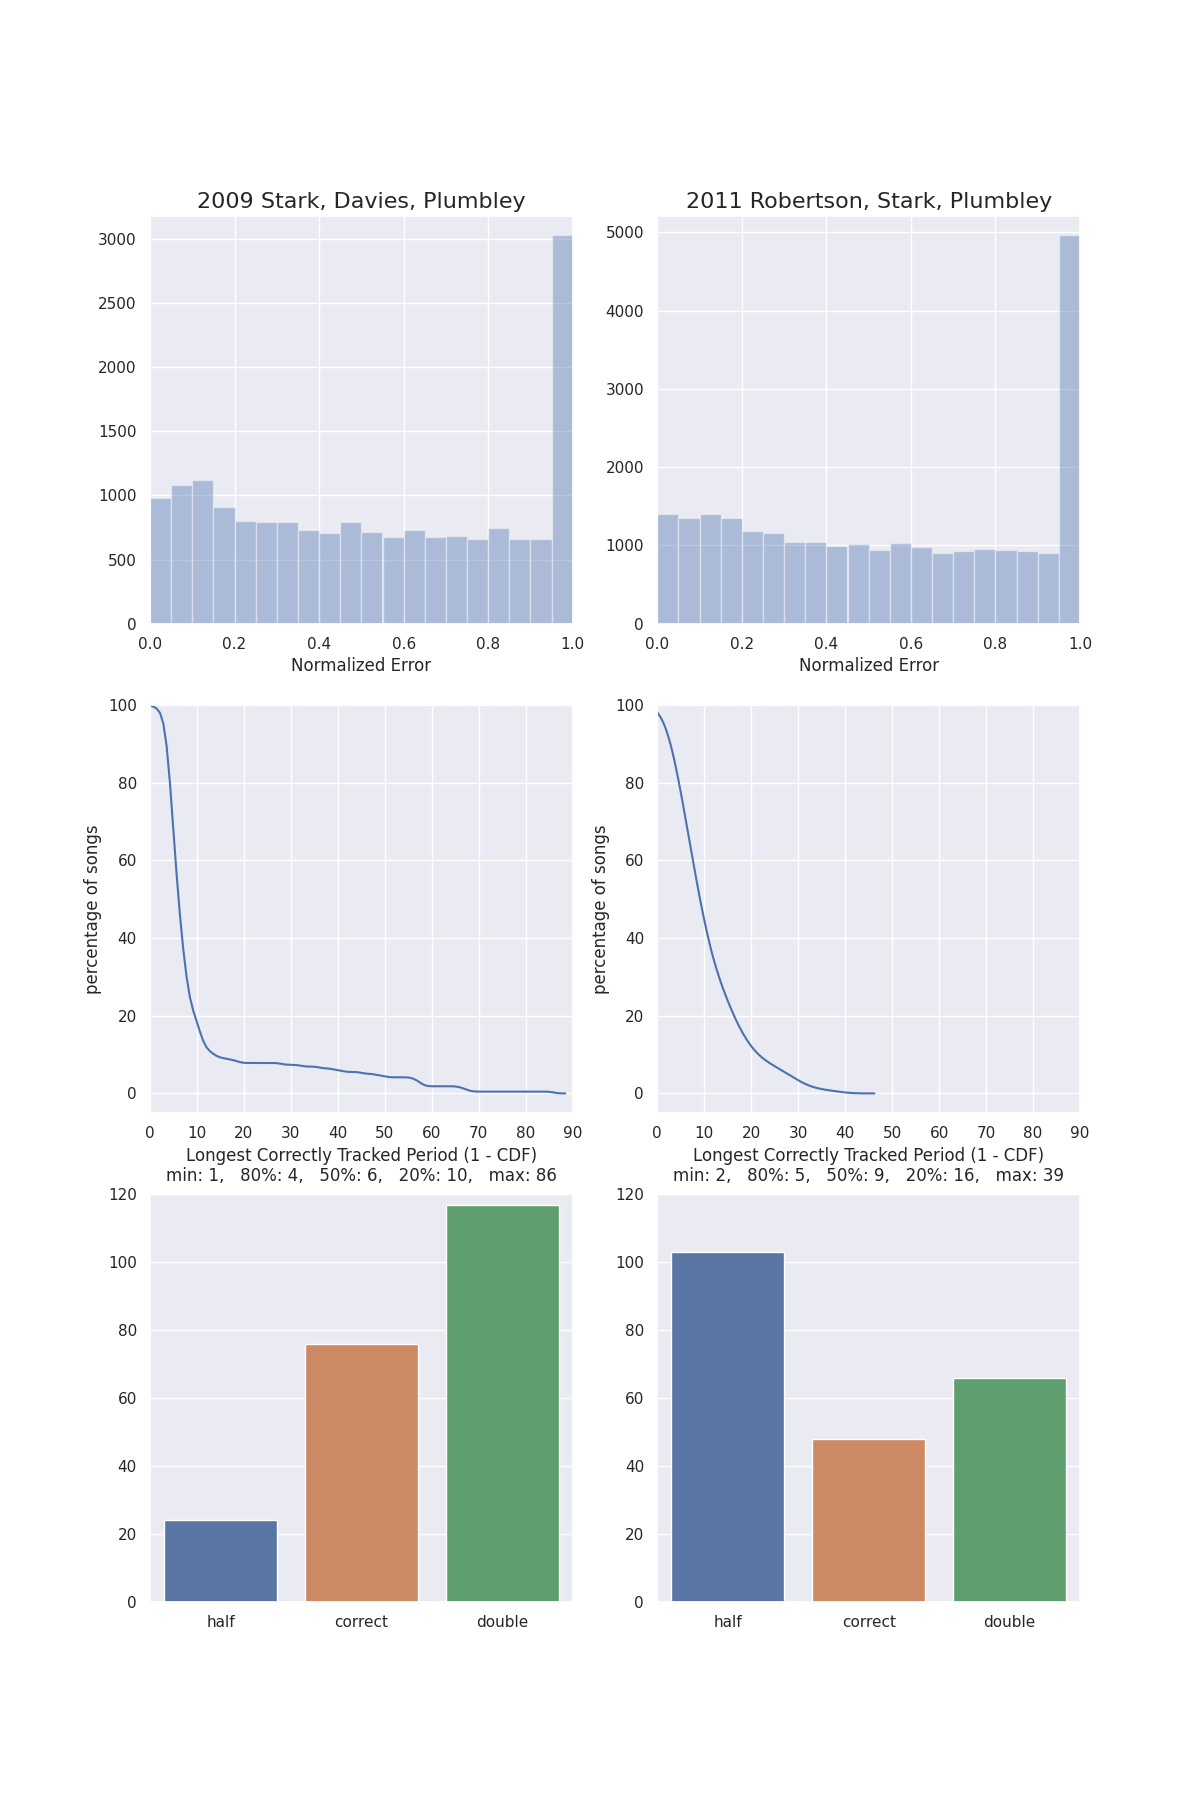
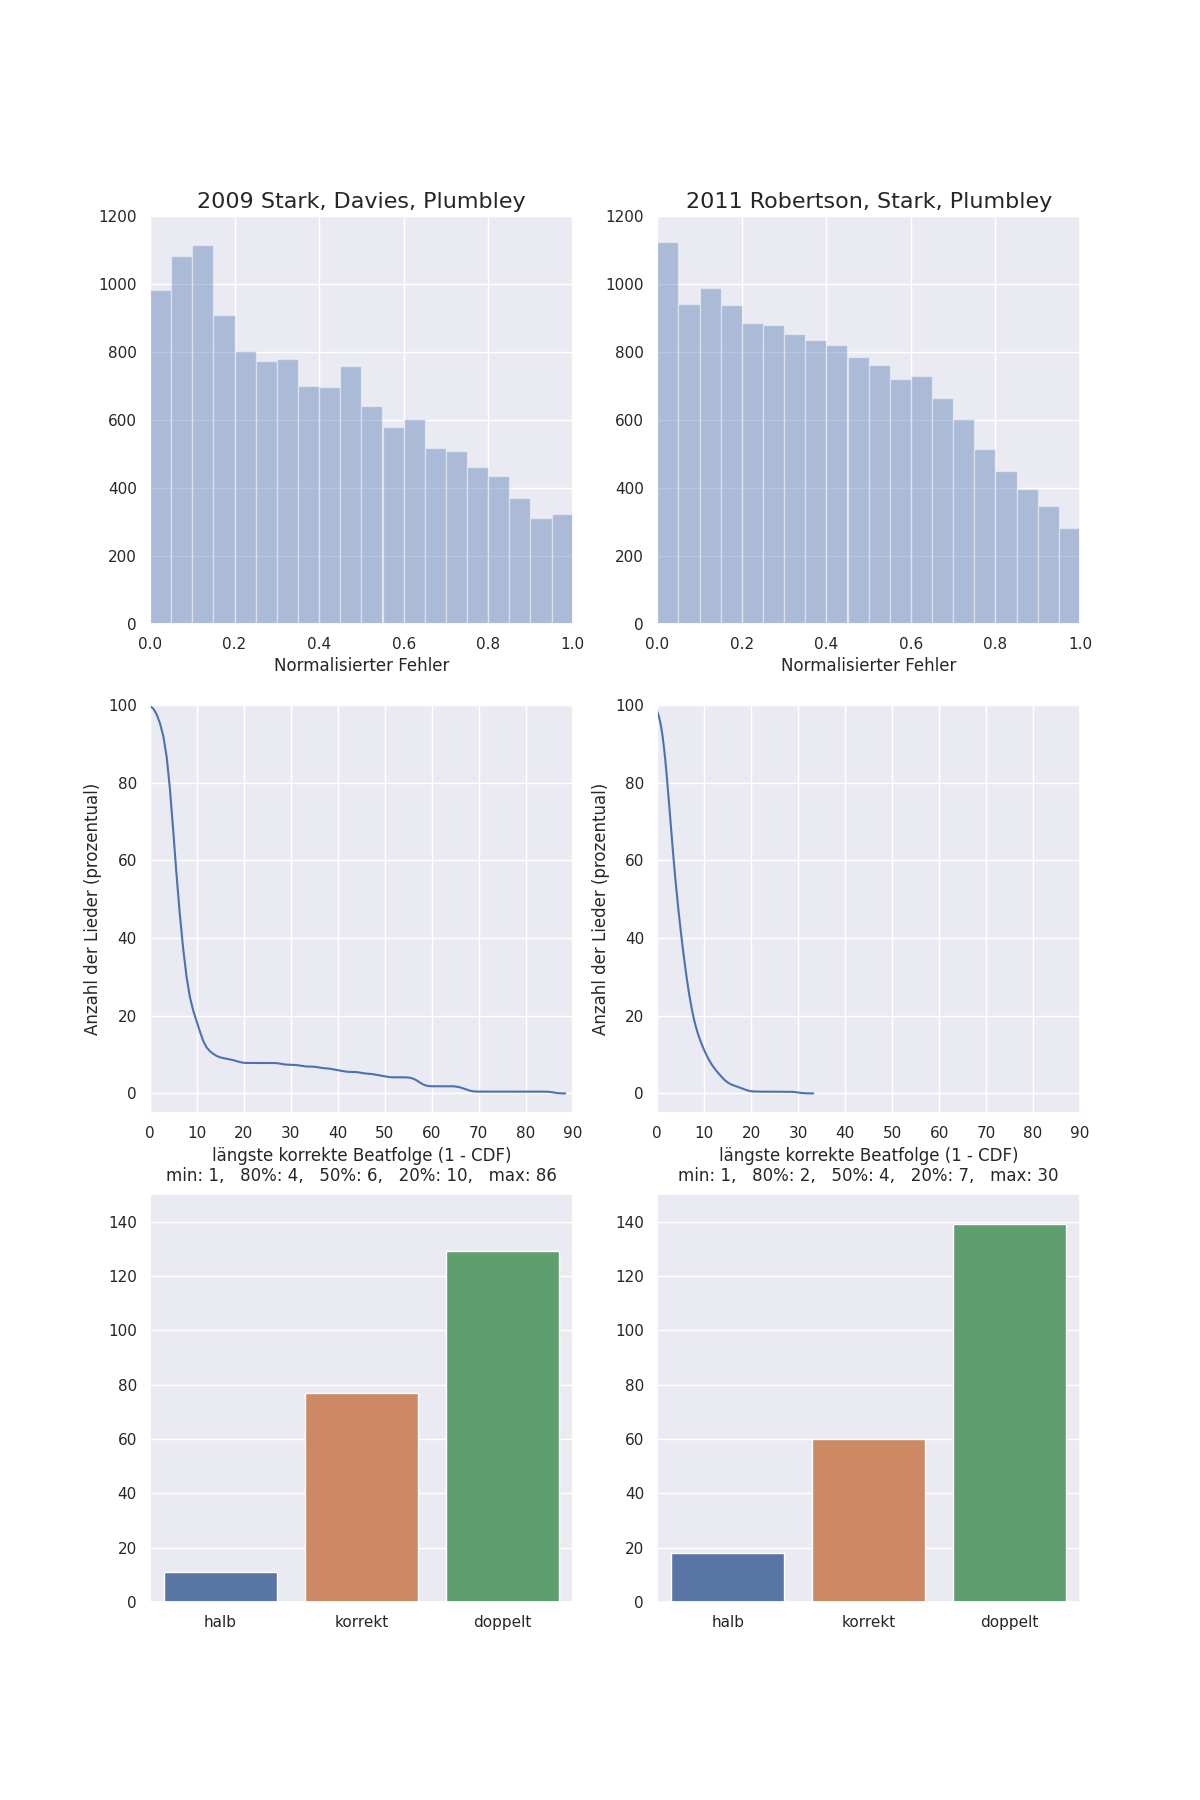
07 Ergebnisse und Auswerting/Beatzeitpunktfehler geschrieben

diff --git a/Arbeit/chapter/06_ergebnisse.tex b/Arbeit/chapter/06_ergebnisse.tex
@@ -115,25 +115,84 @@
 
 \section{Beatzeitpunktfehler}
 {
-	\begin{figure}[h]
-		\includegraphics[scale=0.5]{resources/beat_positions.png}
-		\caption{
-			oben: Histogramme der Beatzeitpunktfehler, \\
-			mitte: Verteilung der längsten korrekten Beatfolgen, \\
-			unten: Anzahl der Lieder, bei denen die Beatfolge mit halbem/korrektem/doppeltem Tempo erkannt wurde.
-		}
-		\label{fig:beaterror}
-	\end{figure}
+	\subsection{Ergebnisse}
+	{
+		\begin{figure}[h]
+			\includegraphics[scale=0.5]{resources/beat_positions.png}
+			\caption{
+				oben: Histogramme der Beatzeitpunktfehler, \\
+				mitte: Verteilung der längsten korrekten Beatfolgen, \\
+				unten: Anzahl der Lieder, bei denen die Beatfolge mit halbem/korrektem/doppeltem Tempo erkannt wurde.
+			}
+			\label{fig:beaterror}
+		\end{figure}
 
-	In Abbildung~\ref{fig:beaterror} oben ist die Verteilung der Fehler aller Beatpaare zu sehen,
-		inklusive der Fehler der ungepaarten Schläge,
-		welche immer \num{1} sind.
-	Die Graphen in der Mitte zeigen eine vertikel gespiegelte kumulative Verteilunsfunktion.
-	So kann man für jede Beatfolgenlänge ablsesen,
-		in wievielen Liedern (prozentual) eine korrekte Beatfolge mit mindestens dieser Länge erkannt wurde.
-	Die Balkendiagramme zeigen pro Algorithmus,
-		bei wievielen Liedern eine Beatfolge mit halbem, korrektem oder doppeltem Tempo als Referenzbeatfolge genommen wurde.
-	Ob die Referenzbeatfolge um $\pi$ phasenverschoben wurde, oder nicht, ist nicht zu sehen.
+		\begin{table}[h]
+			\centering
+			\begin{tabular}{l | r | r}
+				                            & \cite{2009_DaPlSt} & \cite{2011_PlRoSt} \\
+				\hline \hline
+				Anzahl korrekter Beats      & \num{14944}        & \num{15951}        \\
+				davon ungepaart             &  \num{1600}        &  \num{1437}        \\
+				\hline
+				Anzahl vorhergesagter Beats & \num{16361}        & \num{24426}        \\
+				davon ungepaart             &  \num{3017}        &  \num{9912}        \\
+				\hline
+				Anzahl der Beatpaare        & \num{13344}        & \num{14514}
+			\end{tabular}
+			\caption{whatever}
+			\label{tab:pairnum}
+		\end{table}
+
+		In Abbildung~\ref{fig:beaterror} oben ist die Verteilung der Fehler aller Beatpaare zu sehen.
+		Die Histogramme zeigen nur die Fehler,
+			der gepaarten Beats,
+			enthalten jedoch keine Informationen über die ungepaarten Beatvorhersagen.
+		Wieviele der korrekten und vorhergesagten Beats gepaart wurden,
+			kann aus Tabelle~\ref{tab:pairnum} entnommen werden.
+		Die unterschiedlichen Zahlen für die Anzahl korrekter Beats kommen daher,
+			dass die Lieder,
+			je nachdem ob sie der Algorithmus mit halbem, korrektem oder doppeltem Tempo erkennt,
+			unterschiedlich viele Beats haben.
+		Die Graphen in der Mitte von Abbildung~\ref{fig:beaterror} zeigen eine vertikel gespiegelte kumulative Verteilunsfunktion.
+		So kann man für jede Beatfolgenlänge ablsesen,
+			in wievielen Liedern (prozentual) eine korrekte Beatfolge mit mindestens dieser Länge erkannt wurde.
+		Die Balkendiagramme unten zeigen pro Algorithmus,
+			bei wievielen Liedern eine Beatfolge mit halbem, korrektem oder doppeltem Tempo als Referenzbeatfolge genommen wurde.
+		Ob die Referenzbeatfolge um $\pi$ phasenverschoben wurde, oder nicht, ist nicht zu sehen.
+	}
+
+	\subsection{Auswertung}
+	{
+		% Histogramauswertung
+		In den beiden Histogrammen kann man erkennen,
+			dass beide Algorithmen eine ähnliche Fehlerverteilung haben,
+			welche auch zeigt,
+			dass es mehr Beatvorhersagen in der Nähe der korrekten Beats gibt.
+		Diese Information bezieht sich jedoch nur auf die gepaarten Schläge.
+		Aus Tabelle~\ref{tab:pairnum} kann abgelesen werden,
+			dass zwar beide Algorithmen ungefär gleich viele Beatvorhersagen hätten machen müssen (Anzahl korrekter Beats),
+			aber~\cite{2011_PlRoSt} viel mehr Beatzeitpunkte ausgegeben hat (Anzahl vorhergesagter Beats),
+			was zu Folge hatte,
+			dass es öfter dazu kam,
+			dass mehrere vorhergesagte Beats in die Nähe eines korrekten Beats fielen
+			und somit mehr ungepaarte Beats generiert wurden.
+		Das heißt also,
+			dass die Beatvorhersagen von beiden Algorithmen ungefär die gleiche Genauigkeit haben,
+			aber~\cite{2011_PlRoSt} zu viele Beats ausgibt.
+
+		% Erklärung
+		Eine mögliche Erklärung dafür ist,
+			dass \cite{2011_PlRoSt} das Tempo zu schnell schätzt,
+			was auch durch Abbildung~\ref{fig:tempoerror} bestätig wird.
+		Dadurch werden auch mehr Schläge pro Minute ausgegeben.
+		Oft bleibt der Algorithmus auch auf einer Tempo-Phase-Hypothese hängen.
+		Wenn diese weit genug weg von den tatsächlichen Werten von Tempo und Phase ist,
+			bewirkt die Tempoupdateregel ---
+			deren eigentlicher Zweck es ist,
+			dass die Tempo-Phase-Hypothese nicht zu schnell zu weit springen kann ---
+			dass sich die Ausgabe von Tempo und Phase überhaupt nicht ändert.
+	}
 }
 
 \section{längste korrekte Beatfolge}
@@ -144,4 +203,11 @@
 
 \section{Rechenzeit}
 {
+	\subection{Ergebnisse}
+	{
+	}
+
+	\subsection{Auswertung}
+	{
+	}
 }

diff --git a/Testdatenauswertung/beat_positions.py b/Testdatenauswertung/beat_positions.py
@@ -30,6 +30,9 @@ def main(args: argparse.Namespace):
 		streak_lengths = []
 		i_cnt = {0: 0, 1: 0, 2: 0}
 
+		n_correct_beats = 0
+		n_predicted_beats = 0
+
 		for tr_fname in tr_fnames:
 			gt_fname = find_matching_gt_file(tr_fname, args.ground_truth)
 			gt_beats = read_gt_beats(gt_fname)
@@ -38,6 +41,7 @@ def main(args: argparse.Namespace):
 			best_steak = []
 			best_streak_pairs = []
 			best_streak_ij = (None, None)
+			best_alt_gt_beats = []
 
 			for i in range(3):
 				if i == 0: alt_gt_beats = half_tempo(gt_beats)
@@ -47,26 +51,40 @@ def main(args: argparse.Namespace):
 				for j in range(2):
 					if j == 1: alt_gt_beats = pi_phase(alt_gt_beats)
 
-					pairs = pair(alt_gt_beats, tr_beats)
+					pairs = pair2(alt_gt_beats, tr_beats)
 					streak = longest_streak(pairs, 0.35)
 
 					if len(streak) > len(best_steak):
 						best_steak = streak
 						best_streak_pairs = pairs
 						best_streak_ij = (i, j)
+						best_alt_gt_beats = alt_gt_beats
 
 			all_pairs.extend(best_streak_pairs)
 			streak_lengths.append(len(best_steak))
 			i_cnt[best_streak_ij[0]] += 1
+			n_correct_beats += len(best_alt_gt_beats)
+			n_predicted_beats += len(tr_beats)
 
-		errors = [e for _, _, e in all_pairs]
+		errors = [e for g, t, e in all_pairs if g is not None and t is not None]
+		print(
+			f'{system}\n'
+			f'      # total paired beats: {len(errors):7}\n'
+			f'    # total unpaired beats: {len(all_pairs) - len(errors):7}\n'
+			f'           # correct beats: {n_correct_beats:7}\n'
+			f'  # unpaired correct beats: {sum(1 for _, t, _ in all_pairs if t is None):7}\n'
+			f'         # predicted beats: {n_predicted_beats:7}\n'
+			f'# unpaired predicted beats: {sum(1 for g, _, _ in all_pairs if g is None):7}'
+		)
+
 		sb.distplot(
 			errors, ax=axes[0, s],
 			hist=True, kde=False,
 			bins=[i / 20.0 for i in range(21)]
 		)
 		axes[0, s].set_xlim(0, 1)
-		axes[0, s].set_xlabel(f'Normalized Error')
+		axes[0, s].set_xlabel(f'Normalisierter Fehler')
+		axes[0, s].set_ylim(0, 1200)
 		axes[0, s].set_title(SYSTEM_TO_TITLE[system], fontsize=16)
 
 		sb.distplot(
@@ -77,10 +95,10 @@ def main(args: argparse.Namespace):
 		axes[1, s].set_xlim(0, 90)
 		axes[1, s].invert_yaxis()
 		axes[1, s].set_yticklabels(['100', '80', '60', '40', '20', '0'])
-		axes[1, s].set_ylabel('percentage of songs')
+		axes[1, s].set_ylabel('Anzahl der Lieder (prozentual)')
 		percs = percentiles(streak_lengths, [0.0, 0.2, 0.5, 0.8, 1.0])
 		axes[1, s].set_xlabel(
-			f'Longest Correctly Tracked Period (1 - CDF)\n'
+			f'längste korrekte Beatfolge (1 - CDF)\n'
 			f'min: {percs[0]},   '
 			f'80%: {percs[1]},   '
 			f'50%: {percs[2]},   '
@@ -90,10 +108,10 @@ def main(args: argparse.Namespace):
 
 		sb.barplot(
 			ax=axes[2, s],
-			x=['half', 'correct', 'double'],
+			x=['halb', 'korrekt', 'doppelt'],
 			y=[v for k, v in sorted(i_cnt.items())]
 		)
-		axes[2, s].set_ylim(0, 120)
+		axes[2, s].set_ylim(0, 150)
 
 	fig.suptitle('', fontsize=30)
 	fig.savefig(
@@ -148,6 +166,56 @@ def longest_streak(pairs: List[Tuple[float, float, float]], threshold: float) \
 			current.append((gt_beat, tr_beat, error))
 
 	return longest
+
+
+def pair2(gt_beats: List[float], tr_beats: List[float]) \
+	-> List[Tuple[float, float, float]]:
+
+	gt_beats.sort()
+	pairs = []
+
+	# unpaired tr_beats that lie outside the gt_beat range
+	for tr_beat in tr_beats:
+		if tr_beat < gt_beats[0] or tr_beat > gt_beats[-1]:
+			pairs.append((None, tr_beat, 1.0))
+
+	# for each gt_beat, find all nearby tr_beats and pick the closest one
+	for prv, cur, nxt in zip([None] + gt_beats, gt_beats, gt_beats[1:] + [None]):
+		min = (cur + prv) / 2 if prv is not None else cur
+		max = (cur + nxt) / 2 if nxt is not None else cur
+
+		def error(tr_beat: float) -> float:
+			if tr_beat < cur:
+				return (tr_beat - cur) / ((prv - cur) / 2)
+			elif tr_beat == cur:
+				return 0.0
+			else:  # tr_beat > cur:
+				return (tr_beat - cur) / ((nxt - cur) / 2)
+
+		tr_beat_candidates = [
+			(error(tr_beat), tr_beat)
+			for tr_beat in tr_beats
+			if (min <= tr_beat < max) or (tr_beat == max == cur)
+		]
+		tr_beat_candidates.sort()
+
+		# unpaired gt_beat
+		if len(tr_beat_candidates) == 0:
+			pairs.append((cur, None, 1.0))
+
+		else:
+			# actual pair
+			err, tr_beat = tr_beat_candidates[0]
+			pairs.append((cur, tr_beat, err))
+
+			# unpaired tr_beats, which are unpaired,
+			# because the alg. made too many predictions
+			for _, tr_beat in tr_beat_candidates[1:]:
+				pairs.append((None, tr_beat, 1.0))
+
+	pairs.sort(key=lambda pair: (pair[1] if pair[0] is None else pair[0], pair[1]))
+
+	return pairs
 
 
 def pair(gt_beats: List[float], tr_beats: List[float]) \

diff --git a/Arbeit/chapter/05_konzept.tex b/Arbeit/chapter/05_konzept.tex
@@ -198,16 +198,23 @@ In Abschnitt~\ref{konzept/testdaten} wird der verwendete Datensatz vorgestellt
 		{
 			% Pairing
 			Für die Bestimmung der Beatzeitpunktfehler,
-				muss zunächst für jeden ausgegebenen Schlag der dazugehörige richtige Schlag gefunden werden.
+				muss zunächst für jeden korrekten Schlag $C_n$ der dazugehörige Schlag in der Ausgabe des Algorithmus $B_n$ gefunden werden.
 			Dafür wird der Ansatz des Pairings von~\cite{1997_GoMu1} verwendet.
-			Ist die ausgegebene Beatfolge des Algorithmus $B_0, B_1, ...$ und die korrekte Beatfolge $C_0, C_1, ...$,
-				dann werden zwei Beatpositionen $B_m$ und $C_n$ genau dann gepaart,
-				wenn sie die folgende Ungleichung erfüllen.
+			Es werden für jeden korrekten Beat $C_n$ alle ausgegebenen Beats $B_m$ gesucht,
+				die die folgende Ungleichung erfüllen.
 			\begin{equation}
 				C_n - \frac{1}{2}(C_n - C_{n - 1}) \le B_m < C_n + \frac{1}{2}(C_{n + 1} - C_n)
 			\end{equation}
-			Es bleiben einige ungepaarte Beatpositionen übrig,
-				welche die Ungleichung nicht erfüllen können.
+			Gibt es kein $B_m$,
+				welches die Ungleichung erfüllt,
+				wird $C_n$ als ungepaar markiert.
+			Falls es genau ein $B_m$ gibt,
+				welches die Ungleichung erfüllt,
+				wird ein Paar $(C_n, B_m)$ gebildet.
+			Werden für ein $C_n$ mehrere mögliche $B_m$ gefunden,
+				dann bildet $C_n$ ein Paar mit dem $B_m$,
+				das den kleinsten Paarfehler (s. unten) erziehlt.
+			Die anderen $B_m$ werden als ungepaart markiert.
 
 			% Paarfehler
 			Für jedes Paar $(C_n, B_m)$ wird ein normalisierter Fehler $P$ berechnet,
